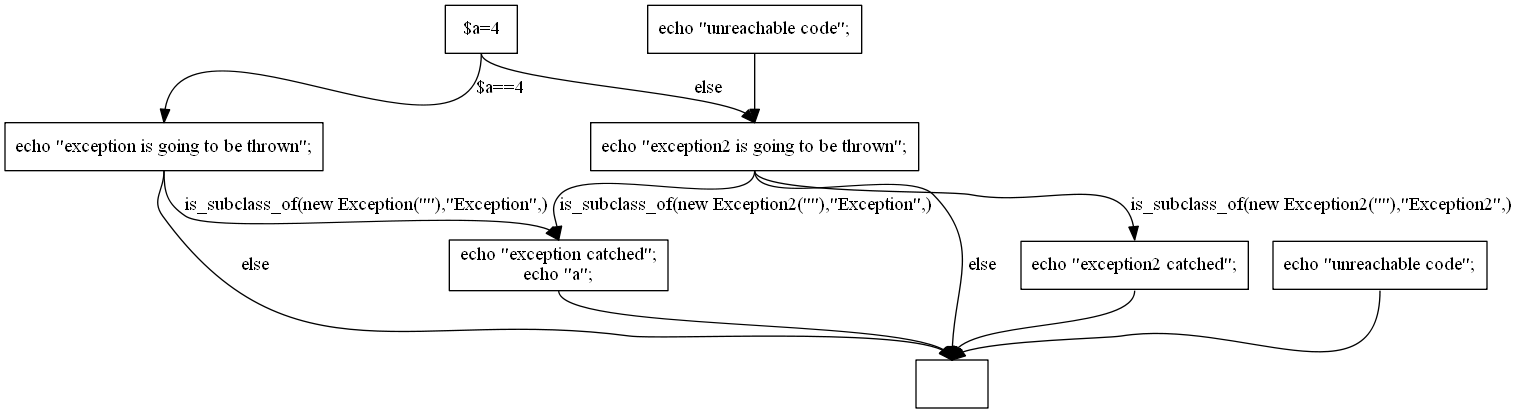
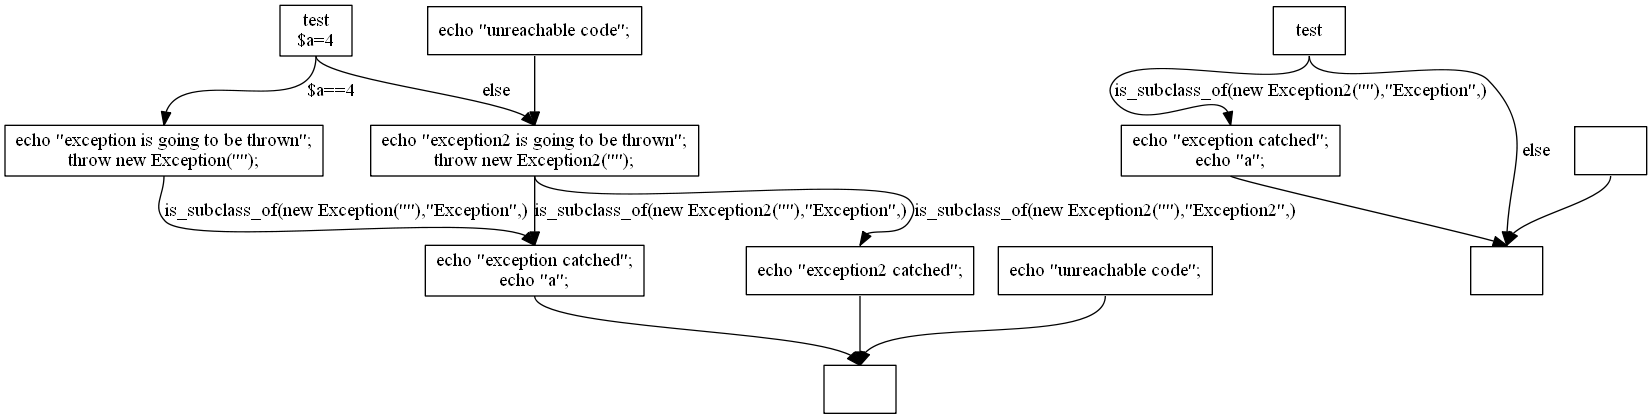
navrat v povodnemu parseru, implementacia vynimiek vo funkciach
git-svn-id: svn+ssh://aiya.ms.mff.cuni.cz/var/svn/weverca/trunk@79 67bba403-d36b-46c0-a350-761a85a4c57d

diff --git a/VSProjects/Realisation/Weverca.Parser/Parser.cs b/VSProjects/Realisation/Weverca.Parser/Parser.cs
@@ -10,7 +10,146 @@ using PHP.Core.Parsers;
 
 namespace Weverca.Parsers
 {
-  
+   public class CompilationUnit : CompilationUnitBase, IReductionsSink
+    {
+        public sealed class PureAssembly : PhpAssembly
+        {
+            public PureModule/*!*/ Module { get { return module; } internal /* friend PAB */ set { module = value; } }
+            private PureModule/*!*/ module;
+
+            #region Construction
+
+
+            /// <summary>
+            /// Used by the builder.
+            /// </summary>
+            internal PureAssembly(ApplicationContext/*!*/ applicationContext)
+                : base(applicationContext)
+            {
+                // to be written-up
+            }
+
+            #endregion
+
+            public override PhpModule GetModule(PhpSourceFile name)
+            {
+                return module;
+            }
+
+        }
+
+
+        public sealed class PureModule : PhpModule
+        {
+            #region Construction
+
+            /// <summary>
+            /// Called by the loader. The module can be loaded to <see cref="PureAssembly"/> or 
+            /// <see cref="PhpLibraryAssembly"/>.
+            /// </summary>
+            internal PureModule(DAssembly/*!*/ assembly)
+                : base(assembly)
+            {
+            }
+
+
+            #endregion
+
+            protected override CompilationUnitBase CreateCompilationUnit()
+            {
+                throw new NotImplementedException();
+            }
+
+            public override void Reflect(bool full, Dictionary<string, DTypeDesc> types, Dictionary<string, DRoutineDesc> functions, DualDictionary<string, DConstantDesc> constants)
+            {
+                throw new NotImplementedException();
+            }
+
+        }
+        public override bool IsPure { get { return is_pure; } }
+        private bool is_pure=true;
+        public override bool IsTransient { get { return false; } }
+        public CompilationUnit(){
+        
+            PureAssembly a = new PureAssembly(ApplicationContext.Default);
+            this.module = a.Module = new PureModule(a);
+        }
+        public override  DType GetVisibleType(QualifiedName qualifiedName, ref string fullName, Scope currentScope,
+            bool mustResolve) {
+                throw new NotImplementedException();
+        }
+        public override  DRoutine GetVisibleFunction(QualifiedName qualifiedName, ref string fullName, Scope currentScope)
+        {
+            throw new NotImplementedException();
+        }
+        public override  DConstant GetVisibleConstant(QualifiedName qualifiedName, ref string fullName, Scope currentScope) {
+            throw new NotImplementedException();
+        }
+
+        public override  IEnumerable<PhpType> GetDeclaredTypes()
+        {
+            throw new NotImplementedException();
+        }
+        public override  IEnumerable<PhpFunction> GetDeclaredFunctions()
+        {
+            throw new NotImplementedException();
+        }
+        public override  IEnumerable<GlobalConstant> GetDeclaredConstants()
+        {
+            throw new NotImplementedException();
+        }
+
+
+        public Dictionary<QualifiedName, Declaration> Functions;
+        public Dictionary<QualifiedName, Declaration> Types;
+        public Dictionary<QualifiedName, Declaration> Constants;
+
+        public void InclusionReduced(Parser/*!*/ parser, IncludingEx/*!*/ node)
+        {
+            // make all inclusions dynamic:
+            if (node.IsConditional == false) { 
+                
+            }
+
+        }
+
+        public void FunctionDeclarationReduced(Parser/*!*/ parser, FunctionDecl/*!*/ node)
+        {
+            if (Functions == null) Functions = new Dictionary<QualifiedName, Declaration>();
+            AddDeclaration(parser.ErrorSink, node.Function, Functions);
+        }
+
+        public void TypeDeclarationReduced(Parser/*!*/ parser, TypeDecl/*!*/ node)
+        {
+            if (Types == null) Types = new Dictionary<QualifiedName, Declaration>();
+            AddDeclaration(parser.ErrorSink, node.Type, Types);
+        }
+
+        public void GlobalConstantDeclarationReduced(Parser/*!*/ parser, GlobalConstantDecl/*!*/ node)
+        {
+            if (Constants == null) Constants = new Dictionary<QualifiedName, Declaration>();
+            AddDeclaration(parser.ErrorSink, (GlobalConstant)node.Constant, Constants);
+        }
+
+        private void AddDeclaration(ErrorSink/*!*/ errors, IDeclaree/*!*/ member, Dictionary<QualifiedName, Declaration>/*!*/ table)
+        {
+            Declaration existing;
+            Declaration current = member.Declaration;
+
+            if (table.TryGetValue(member.QualifiedName, out existing))
+            {
+                // partial declarations are not allowed in transient code => nothing to check;
+                if (CheckDeclaration(errors, member, existing))
+                    AddVersionToGroup(current, existing);
+            }
+            else
+            {
+                // add a new declaration to the table:
+                table.Add(member.QualifiedName, current);
+            }
+        }
+    }
+   
     public class ErrorSinkImpl : ErrorSink
     {
         protected override bool Add(int id, string message, ErrorSeverity severity, int group, string fullPath, ErrorPosition pos) {
@@ -26,14 +165,14 @@ namespace Weverca.Parsers
     {
         private PhpSourceFile source_file;
         private string code;
-        private ScriptCompilationUnit compilationUnit;
+        private CompilationUnit compilationUnit;
         private SourceUnit sourceUnit;
         private ErrorSink errors;
 
         public GlobalCode Ast { get { return sourceUnit.Ast; } }
-        public Dictionary<QualifiedName, Declaration> Functions { get { return (Dictionary<QualifiedName, Declaration>)compilationUnit.GetVisibleFunctions(); } }
-        public Dictionary<QualifiedName, Declaration> Types { get { return (Dictionary<QualifiedName, Declaration>)compilationUnit.GetVisibleTypes(); } }
-        public Dictionary<QualifiedName, Declaration> Constants { get { return (Dictionary<QualifiedName, Declaration>)compilationUnit.GetVisibleConstants(); } }
+        public Dictionary<QualifiedName, Declaration> Functions { get { return compilationUnit.Functions; } }
+        public Dictionary<QualifiedName, Declaration> Types { get { return compilationUnit.Types; } }
+        public Dictionary<QualifiedName, Declaration> Constants { get { return compilationUnit.Constants; } }
         public bool IsParsed { protected set; get; }
 
         public SyntaxParser(PhpSourceFile source_file, string code)
@@ -42,15 +181,13 @@ namespace Weverca.Parsers
             this.source_file = source_file;
             this.code = code;
             this.errors = new ErrorSinkImpl();
-            this.compilationUnit = new ScriptCompilationUnit();
+            this.compilationUnit = new CompilationUnit();
             this.sourceUnit = new PHP.Core.Reflection.VirtualSourceFileUnit(compilationUnit, code, source_file, Encoding.Default);
-            compilationUnit.SourceUnit = sourceUnit;
             this.IsParsed=false;
-                      
         }
 
         public void Parse(){
-            compilationUnit.ParseSourceFile(sourceUnit, errors, LanguageFeatures.Php5);
+            sourceUnit.Parse(errors, compilationUnit, Position.Initial, LanguageFeatures.Php5);
             this.IsParsed=true;
         }
     }

diff --git a/VSProjects/Realisation/Weverca.ControlFlowGraph/CFGVisitor.cs b/VSProjects/Realisation/Weverca.ControlFlowGraph/CFGVisitor.cs
@@ -123,9 +123,9 @@ namespace Weverca.ControlFlowGraph
         /// Stack of block which ends by throw
         /// </summary>
         Stack<List<BasicBlock>> throwBlocks = new Stack<List<BasicBlock>>();
-        
-        
         int numberOfNestedTrys = 0;
+        
+       
 
         private ClassDeclaration actualClass = null;
         private LabelDataDictionary labelDictionary = new LabelDataDictionary();
@@ -274,6 +274,13 @@ namespace Weverca.ControlFlowGraph
             BasicBlock functionSink = new BasicBlock();
             functionSinkStack.AddFirst(functionSink);
 
+            //store throws blocks
+            var currentThrowBlocks = throwBlocks;
+            throwBlocks = new Stack<List<BasicBlock>>();
+            int currentNumberOfNestedTrys = numberOfNestedTrys;
+            numberOfNestedTrys = 0;
+            
+            
             currentBasicBlock.AddElement(functionDeclaration);
             VisitStatementList(functionBody);
 
@@ -285,6 +292,9 @@ namespace Weverca.ControlFlowGraph
             labelDictionary = oldLabelData;
             currentBasicBlock = current;
 
+            //loads throw blocks
+            throwBlocks = currentThrowBlocks;
+            numberOfNestedTrys = currentNumberOfNestedTrys;
             return functionBasicBlock;
         }
 

diff --git a/PHP_sources/exception_in_function_test.php b/PHP_sources/exception_in_function_test.php
@@ -1,6 +1,6 @@
 <?
 
-
+function test($a){
 	$a=4;
 
 	try{
@@ -21,5 +21,14 @@
 		echo "exception catched";
 		echo "a";
 	}
+}
 
+try{
+	throw new Exception2("");
+		
+}
+catch(Exception $e){
+	echo "exception catched";
+	echo "a";
+}
 ?>
